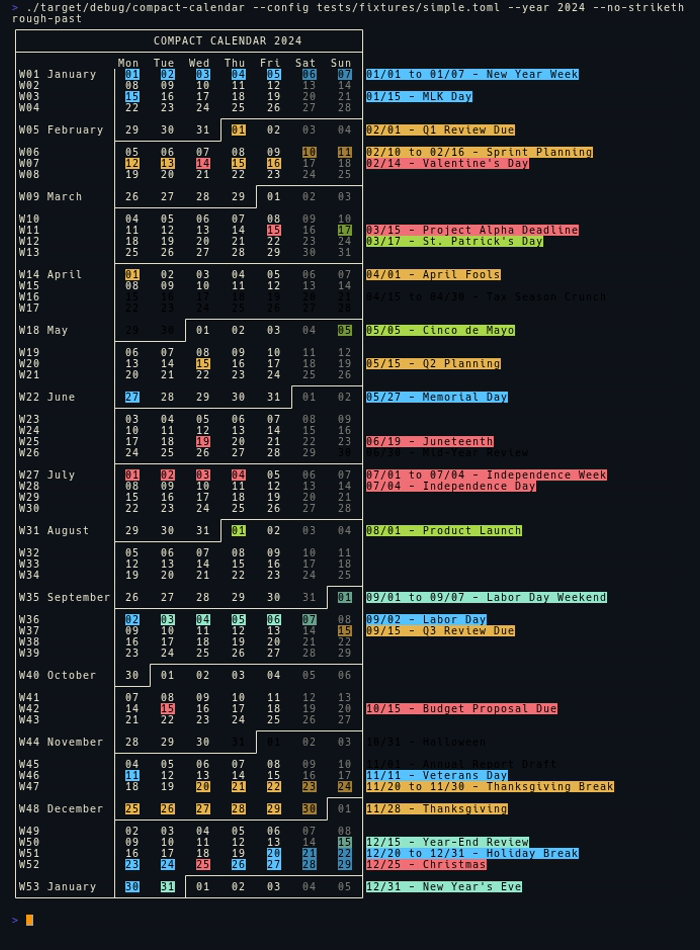
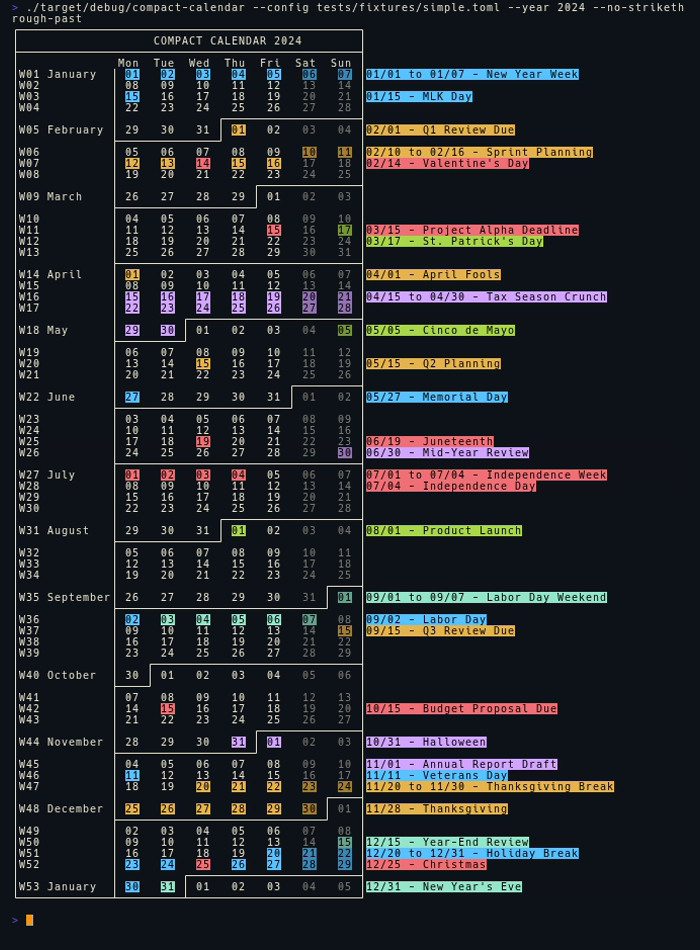
Fix purple highlighting

diff --git a/src/rendering.rs b/src/rendering.rs
@@ -333,8 +333,8 @@ impl ColorPalette {
                 RgbColor(58, 132, 175),
             )),
             "light_purple" => Some(ColorValue::new(
-                RgbColor(230, 186, 255),
-                RgbColor(161, 130, 179),
+                RgbColor(210, 166, 255),
+                RgbColor(147, 116, 179),
             )),
             "light_red" => Some(ColorValue::new(
                 RgbColor(234, 108, 115),
